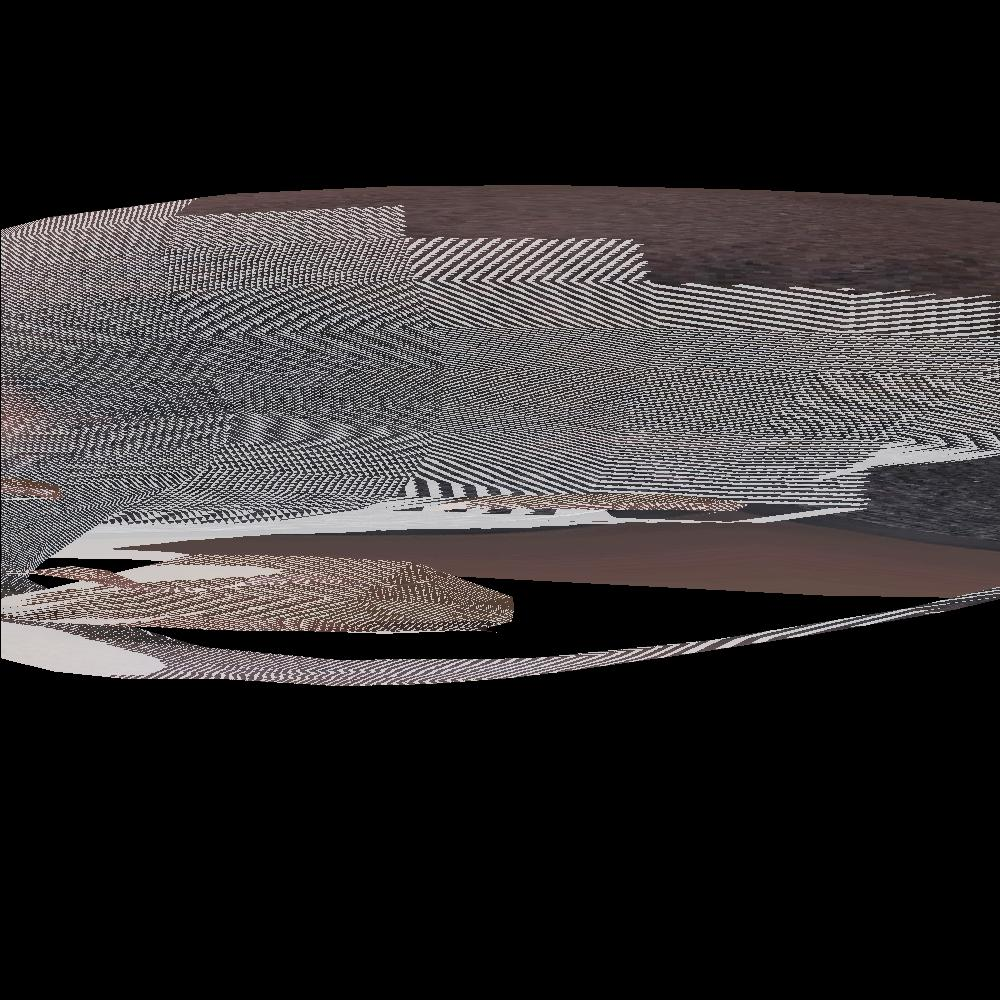
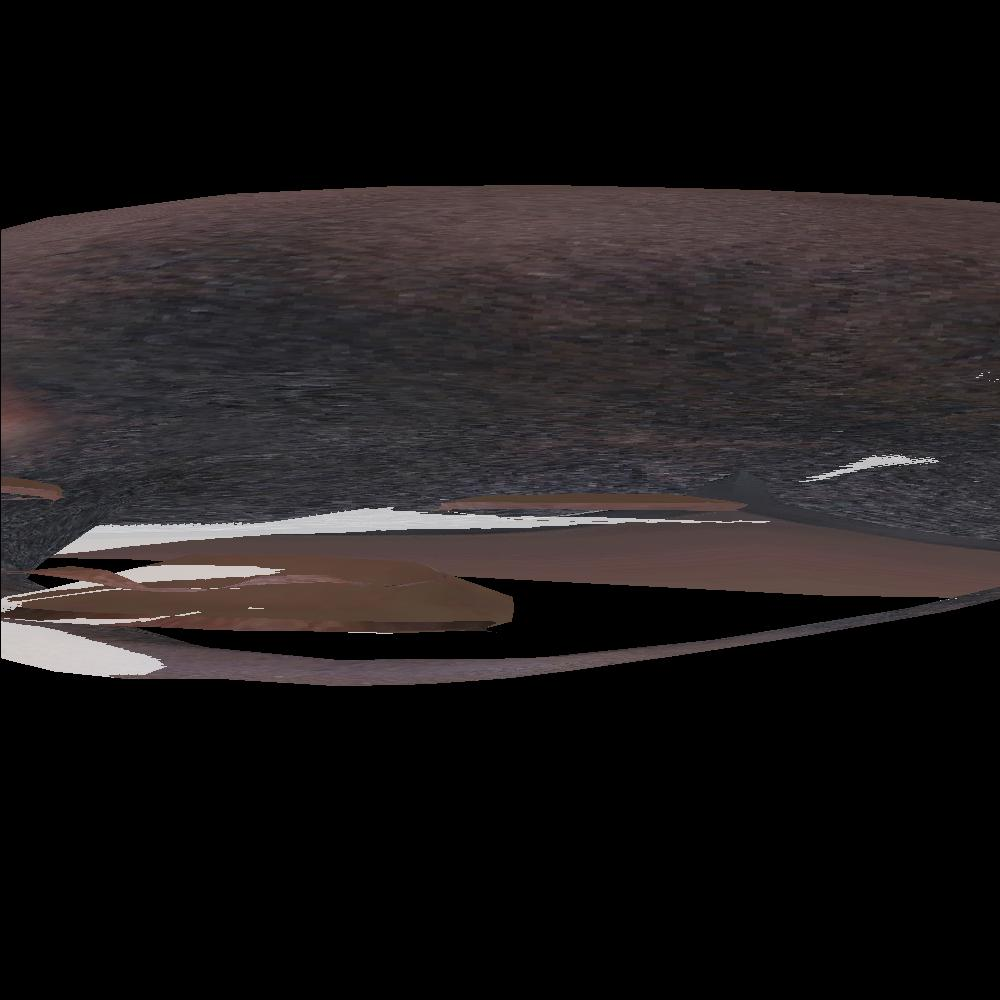
z-fighting

diff --git a/src/com/vssekorin/thrdimviz/FirstShader.java b/src/com/vssekorin/thrdimviz/FirstShader.java
@@ -39,7 +39,7 @@ public final class FirstShader implements Shader {
         float[] sbp = Matrix.mulVect(Mshadow, Vector.upLength(Matrix.mulVect(tri, a), 4, 1));
         sbp = Vector.div(sbp, sbp[3]);
         int idx = (int)(sbp[0] + 0.5f) + (int) (sbp[1] + 0.5f) * size;
-        float shadow = 0.3f + 0.7f * (bufferShadow[idx] < sbp[2] ? 1 : 0);
+        float shadow = 0.3f + 0.7f * (bufferShadow[idx] < sbp[2] + 123.45 ? 1 : 0);
         float[] vUV = Matrix.mulVect(uv, a);
         int rgb = Application.texture.getRGB((int) (vUV[0] * 2844), (int) (vUV[1] * 2844));
         int[] components = getComponents(rgb);
